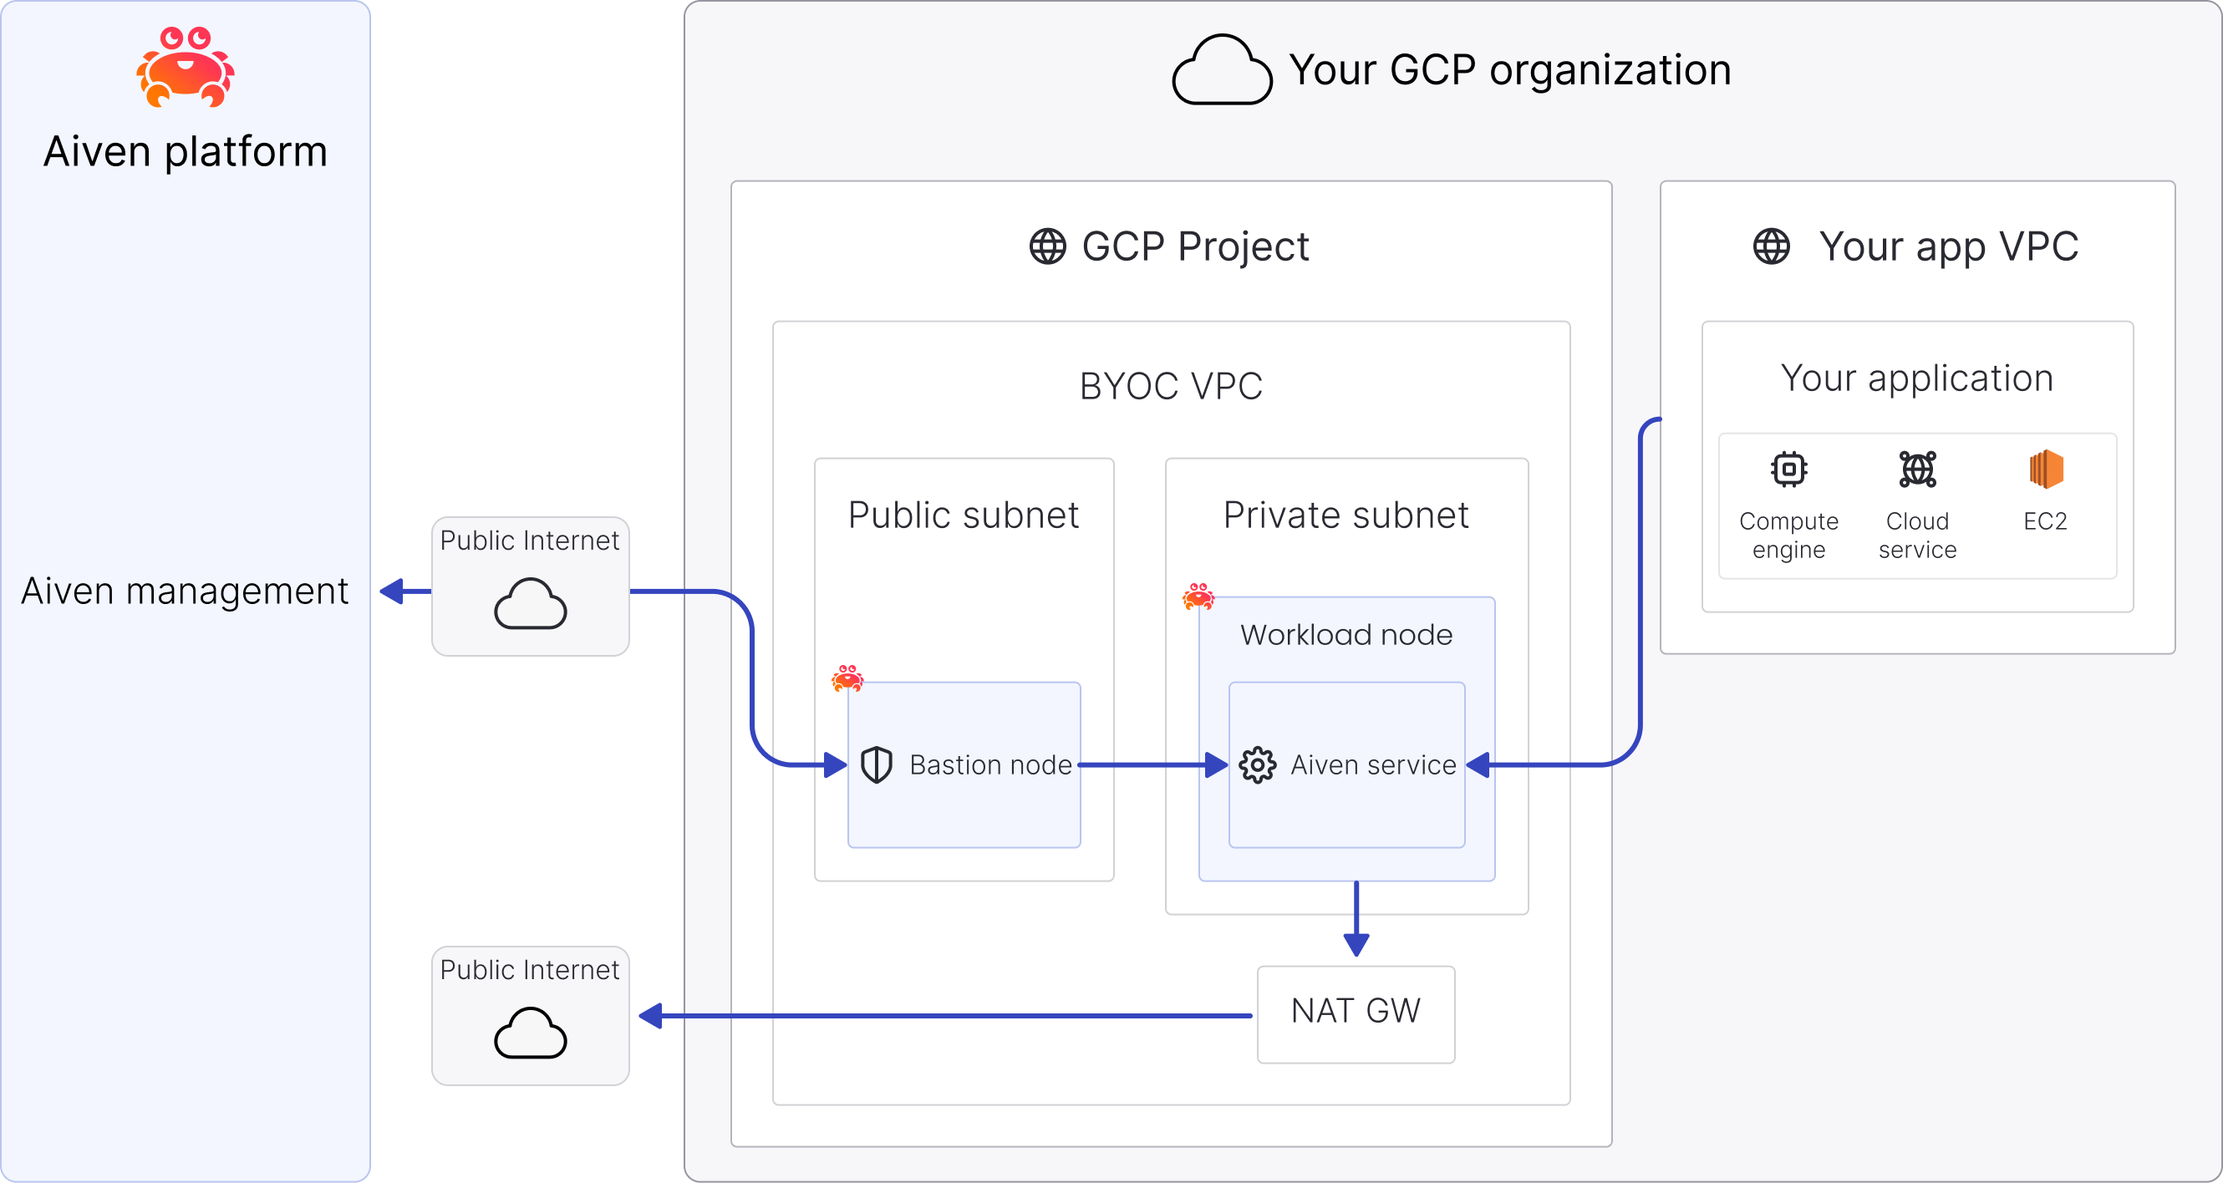
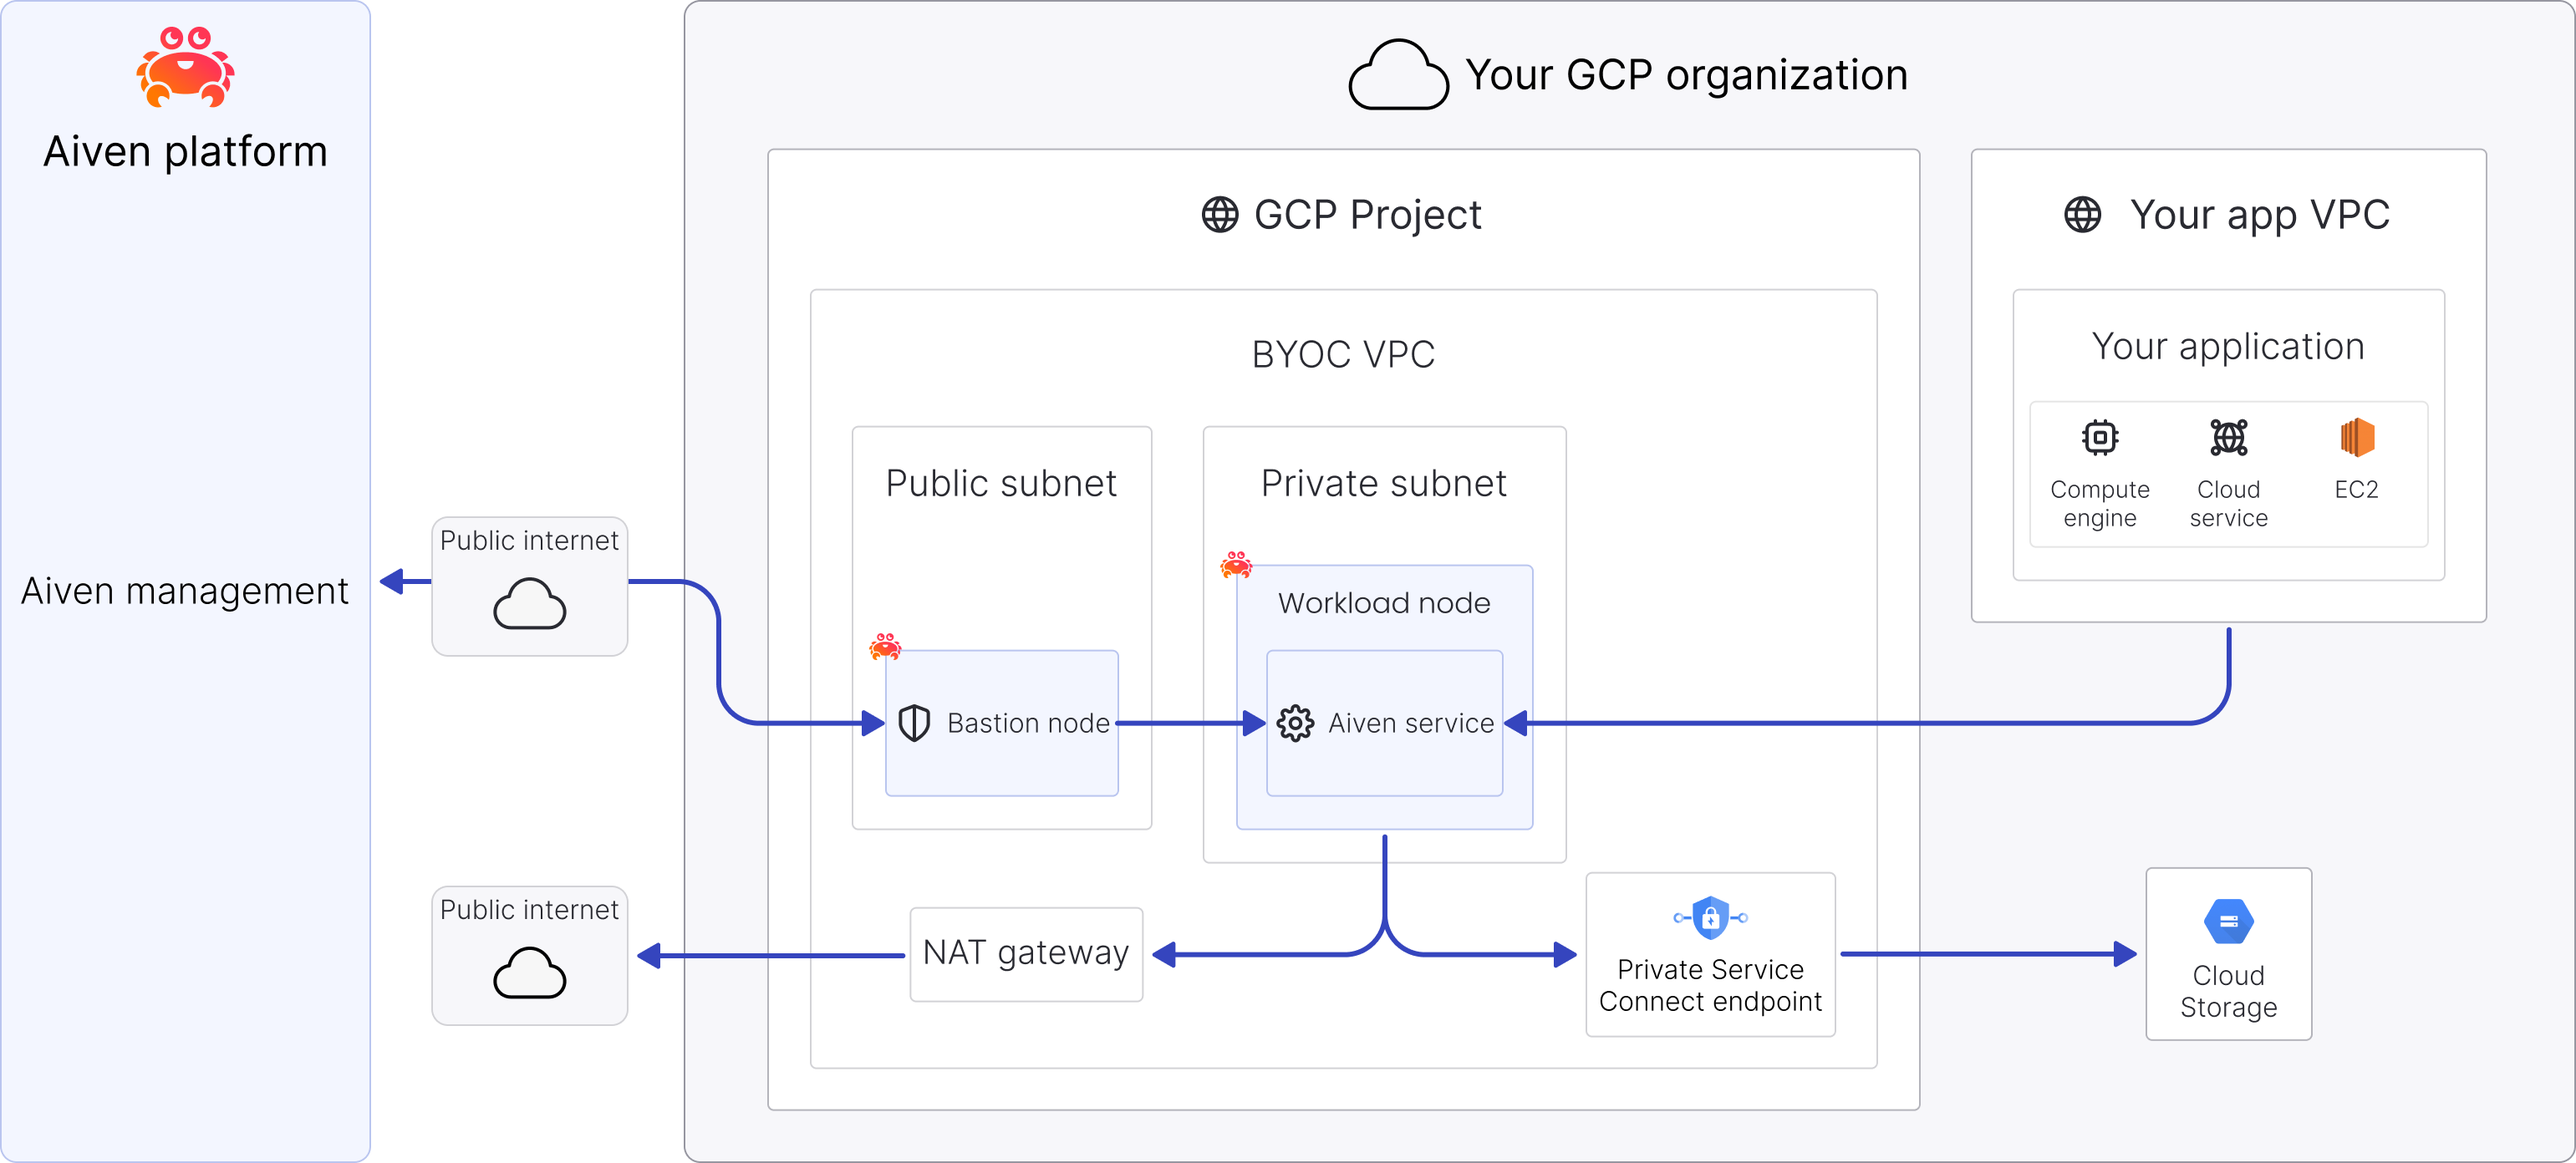
diagrams and backup info

diff --git a/docs/platform/concepts/byoc.md b/docs/platform/concepts/byoc.md
@@ -193,6 +193,11 @@ to work properly (supporting HA signaling to the Aiven management node and RPM d
 from Aiven repositories).
 :::
 
+Object storage in your Google Cloud organization is
+where service's [backups](/docs/platform/concepts/byoc#byoc-service-backups) and
+[cold data](/docs/platform/howto/byoc/store-data#byoc-tiered-storage) are stored using
+Google **Cloud Storage** buckets.
+
 </TabItem>
 <TabItem value="4" label="Google Cloud public">
 
@@ -207,6 +212,10 @@ using the public address, and the Aiven management plane can access the service 
 directly. To restrict access to your service, you can use the
 [IP filter](/docs/platform/howto/restrict-access).
 
+Object storage in your Google Cloud organization is
+where service's [backups](/docs/platform/concepts/byoc#byoc-service-backups) and
+[cold data](/docs/platform/howto/byoc/store-data#byoc-tiered-storage) are stored using
+Google **Cloud Storage** buckets.
 </TabItem>
 </Tabs>
 
@@ -220,13 +229,11 @@ Depending on the BYOC service, Aiven takes
 [regular service backups](/docs/platform/concepts/service_backups) to enable forking, point
 in time recovery (PITR), and disaster recovery.
 
-Backups of BYOC-hosted services are stored as follows:
+BYOC-hosted services have user-owned backups stored in object storage in your AWS
+account or your Google Cloud organization. Backups reside in:
 
-- **AWS BYOC**: User-owned backups stored in object storage in your own AWS cloud account.
-  One S3 bucket is created per custom cloud.
-- **Google Cloud**: Aiven-owned backups stored in Aiven-managed object
-  storage. It's still possible to store backups in your own cloud account, provided
-  Aiven gets read-write permissions to access the object storage in your cloud account.
+- S3 buckets for AWS BYOC environments
+- Cloud Storage buckets for Google Cloud BYOC environments
 
 :::important
 
